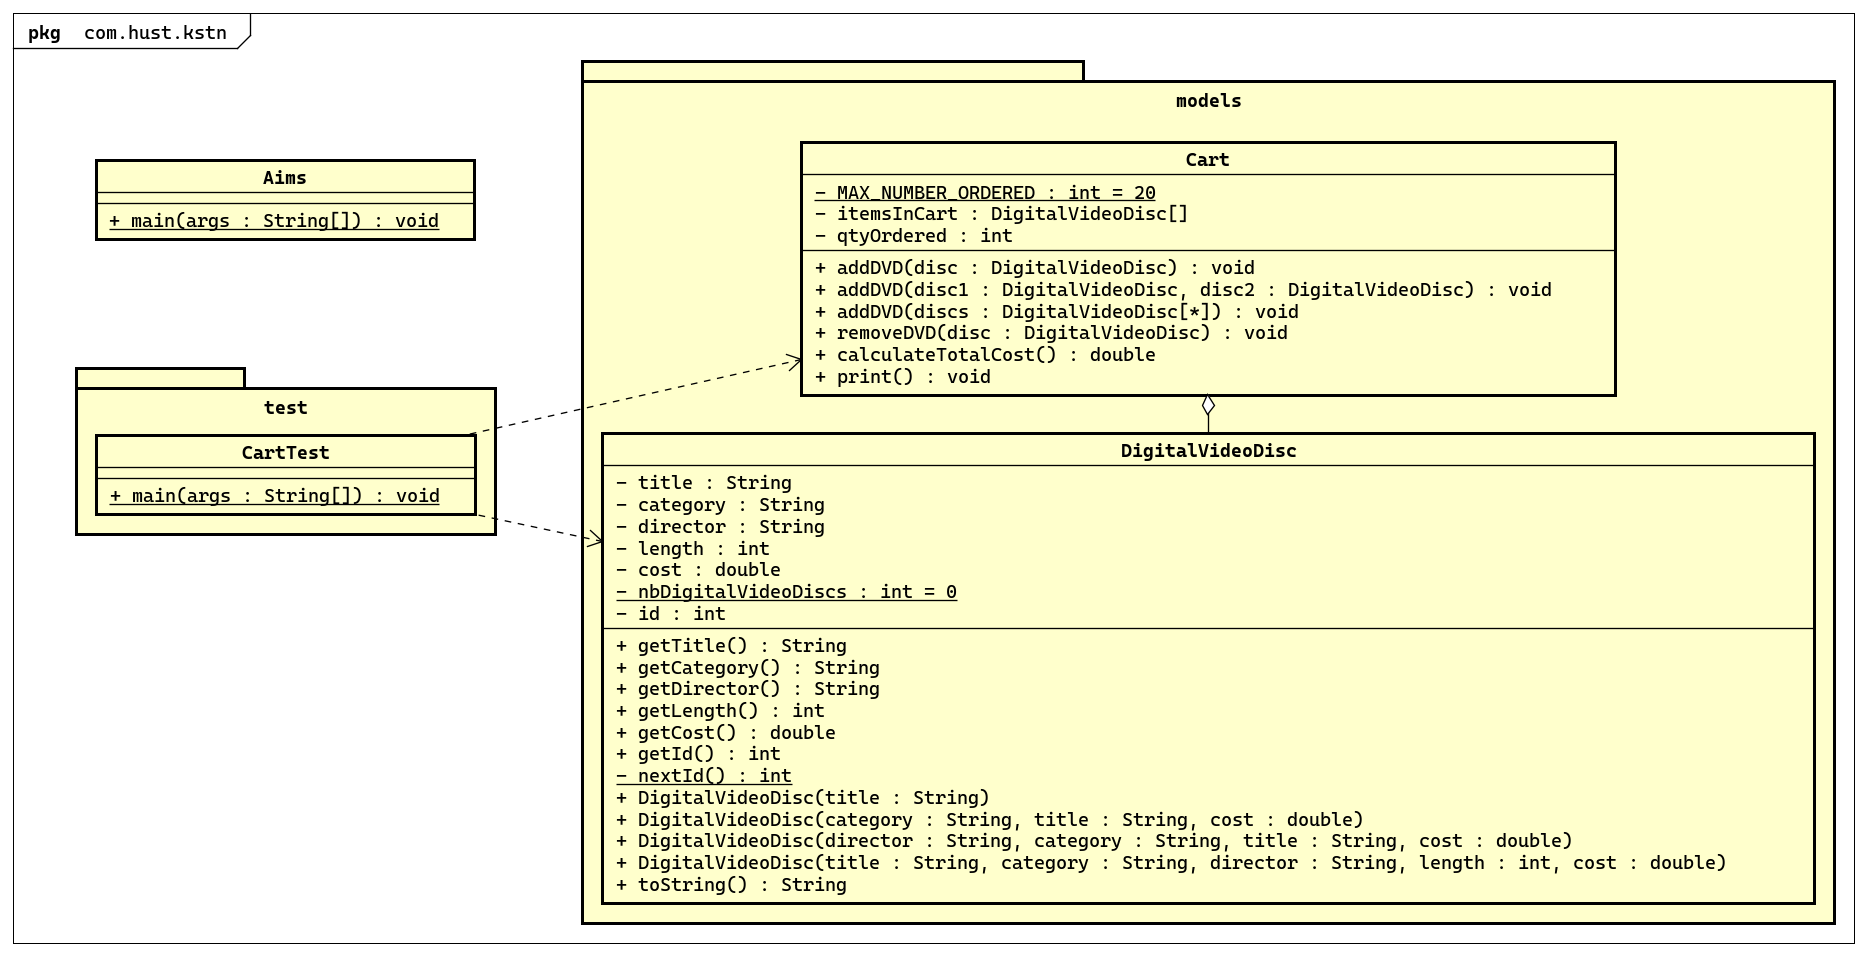
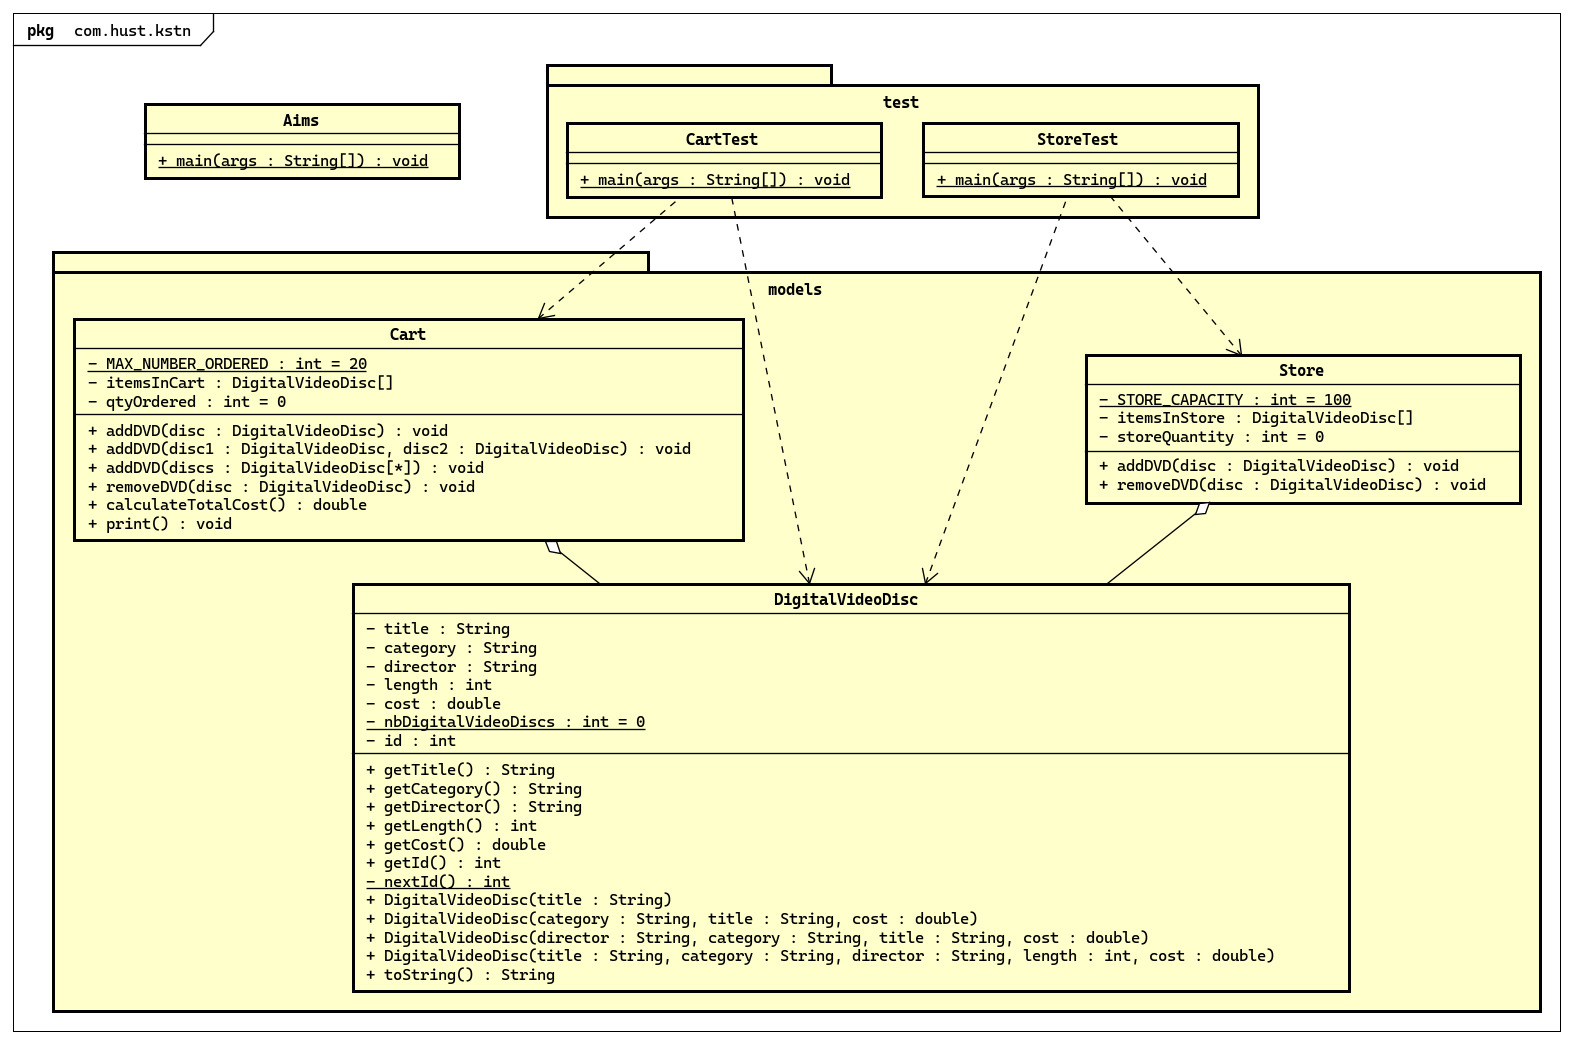
Store and test

diff --git a/AimsProject/src/com/hust/kstn/test/StoreTest.java b/AimsProject/src/com/hust/kstn/test/StoreTest.java
@@ -1,0 +1,37 @@
+package com.hust.kstn.test;
+
+import com.hust.kstn.models.*;
+
+public class StoreTest {
+
+    public static void main(String[] args) {
+        Store store = new Store();
+
+        DigitalVideoDisc[] dvds = {new DigitalVideoDisc("The Lion King", "Animation", "Roger Allers", 87, 19.95),
+            new DigitalVideoDisc("Star Wars", "Science Fiction", "George Lucas", 121, 24.95),
+            new DigitalVideoDisc("Aladdin", "Animation", "Guy Ritchie", 128, 18.50),
+            new DigitalVideoDisc("The Godfather", "Crime", "Francis Ford Coppola", 175, 25.00),
+            new DigitalVideoDisc("Avengers: Endgame", "Action", "Anthony Russo", 181, 27.99),
+            new DigitalVideoDisc("Inception", "Science Fiction", "Christopher Nolan", 148, 22.50),
+            new DigitalVideoDisc("Frozen", "Animation", "Chris Buck", 102, 19.00),
+            new DigitalVideoDisc("Titanic", "Romance", "James Cameron", 195, 21.99),
+            new DigitalVideoDisc("Jurassic Park", "Adventure", "Steven Spielberg", 127, 20.99),
+            new DigitalVideoDisc("The Matrix", "Action", "Lana Wachowski", 136, 23.50),
+            new DigitalVideoDisc("Forrest Gump", "Drama", "Robert Zemeckis", 142, 18.99),
+            new DigitalVideoDisc("The Dark Knight", "Action", "Christopher Nolan", 152, 26.50),
+            new DigitalVideoDisc("Finding Nemo", "Animation", "Andrew Stanton", 100, 17.75),
+            new DigitalVideoDisc("Gladiator", "Action", "Ridley Scott", 155, 24.00),
+            new DigitalVideoDisc("Toy Story", "Animation", "John Lasseter", 81, 16.99),
+            new DigitalVideoDisc("Avatar", "Science Fiction", "James Cameron", 162, 25.99),
+            new DigitalVideoDisc("Interstellar", "Science Fiction", "Christopher Nolan", 169, 27.50),
+            new DigitalVideoDisc("The Avengers", "Action", "Joss Whedon", 143, 23.99),
+            new DigitalVideoDisc("Coco", "Animation", "Lee Unkrich", 105, 18.50),
+            new DigitalVideoDisc("Shrek", "Animation", "Andrew Adamson", 90, 17.00),
+            new DigitalVideoDisc("Up", "Animation", "Pete Docter", 96, 19.25)};
+
+        store.addDVD(dvds[3]);
+        store.removeDVD(dvds[5]);
+        store.removeDVD(dvds[3]);
+        store.removeDVD(dvds[3]);
+    }
+}

diff --git a/AimsProject/src/com/hust/kstn/models/Store.java b/AimsProject/src/com/hust/kstn/models/Store.java
@@ -1,0 +1,35 @@
+package com.hust.kstn.models;
+
+public class Store {
+
+    private static final int STORE_CAPACITY = 100;
+    private DigitalVideoDisc[] itemsInStore = new DigitalVideoDisc[STORE_CAPACITY];
+    private int storeQuantity = 0;
+
+    public void addDVD(DigitalVideoDisc disc) {
+        if (storeQuantity >= STORE_CAPACITY) {
+            System.out.println("The store is almost full!");
+            return;
+        }
+        itemsInStore[storeQuantity] = disc;
+        storeQuantity++;
+        System.out.println("The disc has been added successfully.");
+    }
+
+    public void removeDVD(DigitalVideoDisc disc) {
+        if (storeQuantity == 0) {
+            System.out.println("The store is empty!");
+            return;
+        }
+        for (int i = 0; i < storeQuantity; i++) {
+            if (itemsInStore[i].equals(disc)) {
+                itemsInStore[i] = itemsInStore[storeQuantity - 1];
+                itemsInStore[storeQuantity - 1] = null;
+                storeQuantity--;
+                System.out.println("The disc has been removed successfully.");
+                return;
+            }
+        }
+        System.out.println("The disc does not exist!");
+    }
+}
